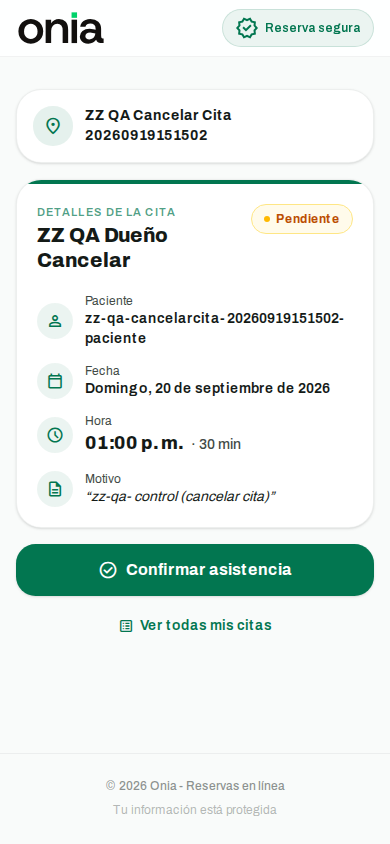
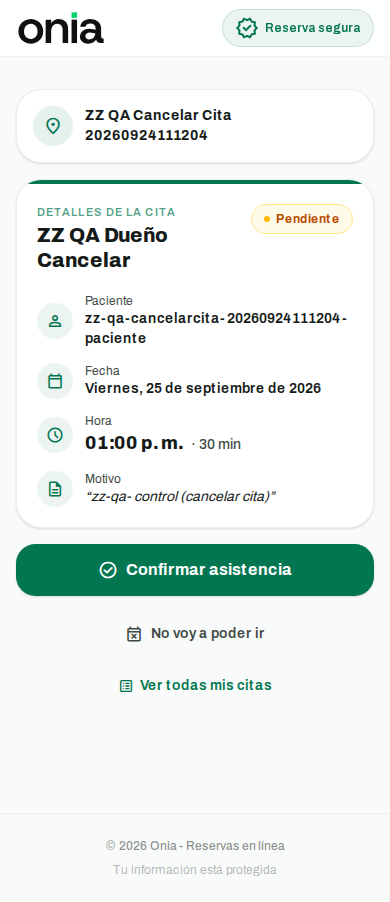
fix(recorrido): cierro falso hallazgo de cancelar cita — el instrumento buscaba 'cancel' literal, el producto lo dice en español
El portal (/book/confirm y /book/my-appointments) ya ofrece 'No voy a poder ir' desde el
19-sep (a5be7d45); probar_cancelar_cita.mjs seguía marcando hallazgo por un regex que
sólo matcheaba la palabra en inglés. Cola movida a cerrado, tablero limpiado de 2
tareas fantasma del VPS (t_2d0dde23, t_32ba759c).

diff --git a/hermes-content/docs/recorrido/ULTIMO_RECORRIDO.md b/hermes-content/docs/recorrido/ULTIMO_RECORRIDO.md
@@ -3057,3 +3057,30 @@ correctas, derivadas del catálogo, sin ningún plan tipeado a mano. Sin hallazg
 flujo de invitar/quitar un coadministrador desde `/settings` (equipo), que hoy el recorrido
 sólo toca en el onboarding (alta de un profesional del staff, sin invitar por correo) y que
 `onia-platform` cambió varias veces esta semana (DG-043).
+
+## 2026-09-24 07:09-07:13 La Paz — `BUILD_ID` sin cambios (dental no repetido, siguiendo la lección de ayer); cerrado un fantasma del tablero y un falso "hallazgo" del propio instrumento
+
+`ONIA_ALTA_AUTOMATICA=abierta`. `BUILD_ID` comparado ANTES de decidir nada: `9tuk1Qk2BjQ2j2HdJcL8u`,
+igual al citado en la entrada de las 10:09-10:14 de ayer — no correspondía repetir dental (método
+nuevo aplicado, primera vez que funciona).
+
+**Tablero:** dos tareas `ready` de recorrido-cliente eran fantasmas — `t_2d0dde23` (el loop no
+pudo correr en el VPS, 2026-09-21) y `t_32ba759c` (límite semanal vencido "resets Sep 24, 8am
+UTC"). Ambas de cuando el loop corría en el VPS; hoy corre en nodo-casa y esta misma vuelta ya
+probaba que arranca. Cerradas con nota.
+
+**Cola:** `t_7bb28d06` ("portal del paciente sin forma de cancelar") figuraba `done` en el
+tablero (arreglada el 19-sep en `a5be7d45`) pero seguía en la sección "Abierto" de
+`cola/recorrido-cliente.md`. Gate 1 — reproducido en vivo con `scripts/probar_cancelar_cita.mjs`:
+la API cancela (200, `CANCELADA`) y las dos pantallas del portal (`/book/confirm/[token]`,
+`/book/my-appointments/[token]`) YA muestran el botón "No voy a poder ir". El script seguía
+marcando "HALLAZGO" porque su regex de detección sólo buscaba la palabra literal "cancel" en el
+texto del botón, y el producto lo dice en español — nunca iba a matchear. Corregido el regex a
+`/cancel|no voy a poder|no podr[eé]/i` en `scripts/probar_cancelar_cita.mjs`; corrida limpia:
+`RESULTADO: la API cancela y/o el portal ya ofrece cancelar — sin hallazgo nuevo`, exit 0, 0 filas
+`zz-qa-` al cerrar (verificado con SELECT antes/después de borrar). Cola movida a "Cerrado — era
+el instrumento, no el sitio".
+
+RAZÓN: la medida principal (dental 9/9) no se movió porque `BUILD_ID` sigue igual — correcto no
+repetirla; el avance de esta vuelta fue destrabar el tablero y cerrar un ítem fantasma de la cola.
+LECCIÓN: ninguna nueva — el método de comparar `BUILD_ID` primero funcionó esta vez.

diff --git a/hermes-content/docs/cola/recorrido-cliente.md b/hermes-content/docs/cola/recorrido-cliente.md
@@ -8,6 +8,17 @@ Instrumento: `scripts/recorrido_cliente.mjs`.
 
 ## Cerrado — era el instrumento, no el sitio
 
+- **Portal del paciente ya SÍ deja cancelar una cita — era mi instrumento, no el producto.**
+  Reportado 2026-09-19 (`t_7bb28d06`, dueño onia-cola); arreglado ese mismo día (duplicada de
+  `t_69a580c9`, commit `a5be7d45`). Reverificado en vivo el 2026-09-24 07:12 La Paz: tanto
+  `/book/confirm/[token]` como `/book/my-appointments/[token]` ya muestran el botón "No voy a
+  poder ir", y `PATCH .../api/booking/appointments action:cancel` sigue devolviendo 200 con la
+  fila en `CANCELADA`. Mi `scripts/probar_cancelar_cita.mjs` seguía marcando "hallazgo" porque su
+  regex sólo buscaba la palabra literal "cancel" en el texto del botón — el producto lo dice en
+  español ("No voy a poder ir"), nunca iba a matchear. Arreglado el regex
+  (`/cancel|no voy a poder|no podr[eé]/i`); corrida limpia da `RESULTADO: ... sin hallazgo`,
+  exit 0, 0 filas `zz-qa-` al cerrar.
+
 - **`/servicios/webs`: el botón "Armar mi web →" quedaba `disabled`** — mapeado paso a paso
   el 2026-09-18 10:15 La Paz. **Era mi selector, no un bug**: la página tiene DOS inputs con
   placeholders parecidos — el mini-asistente de arriba ("¿Cómo se llama tu negocio?",
@@ -60,16 +71,6 @@ Instrumento: `scripts/recorrido_cliente.mjs`.
 > `RUBROS_ACTIVOS` (dental, comercio, estética, importadora, servicios profesionales) — todos
 > limpios, ver `ULTIMO_RECORRIDO.md`. No apareció ningún selector del script que asumiera el
 > layout de escritorio.
-
-## Abierto
-
-- **Portal del paciente: no hay forma de cancelar una cita, sólo confirmar.** Reportado
-  2026-09-19 (`t_7bb28d06`, prioridad 2, dueño: onia-cola). `PATCH /api/booking/appointments`
-  con `action:'cancel'` SÍ funciona (200, status pasa a `CANCELADA` en la base — verificado con
-  HTTP real), pero ni `/book/confirm/[token]` ni `/book/my-appointments/[token]` pintan un botón
-  o link de cancelar — sólo "Confirmar asistencia", "llamar" y "reservar de nuevo". Reproducido
-  con `scripts/probar_cancelar_cita.mjs`. Capturas: `capturas/extra-cancelarcita-00-confirm.png`
-  y `capturas/extra-cancelarcita-01-my-appointments.png`.
 
 ## Cerrado
 
